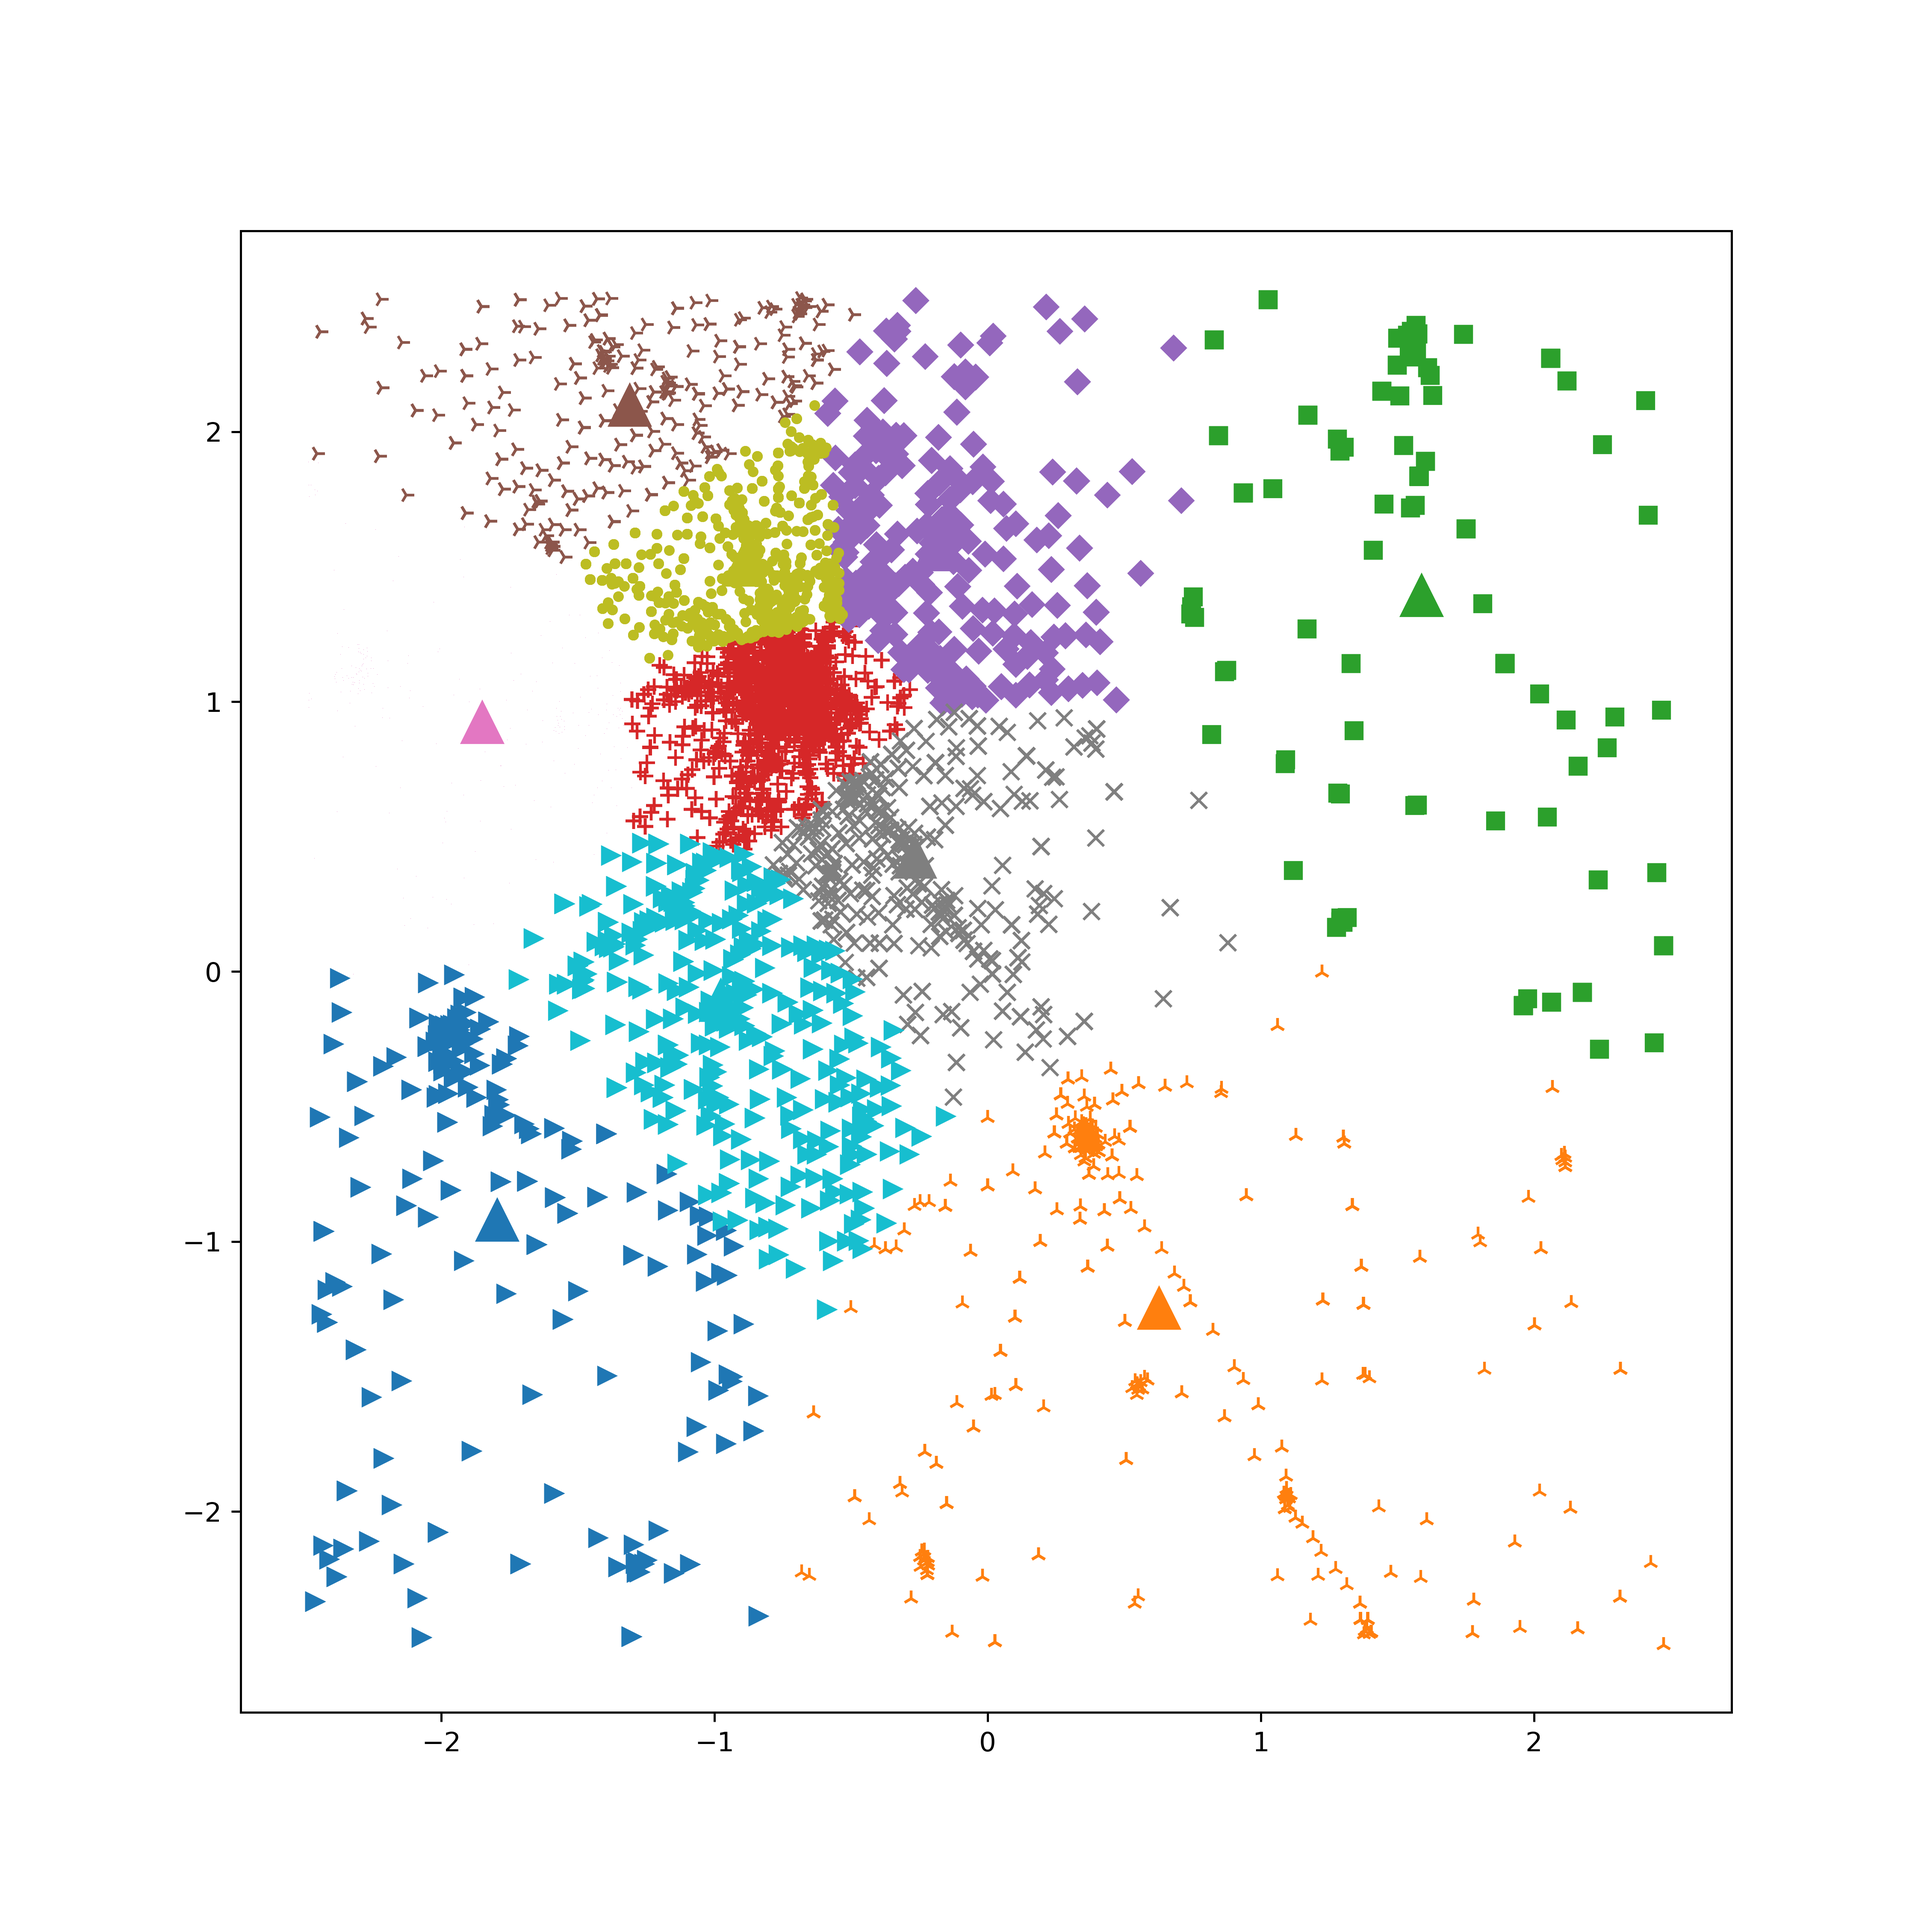
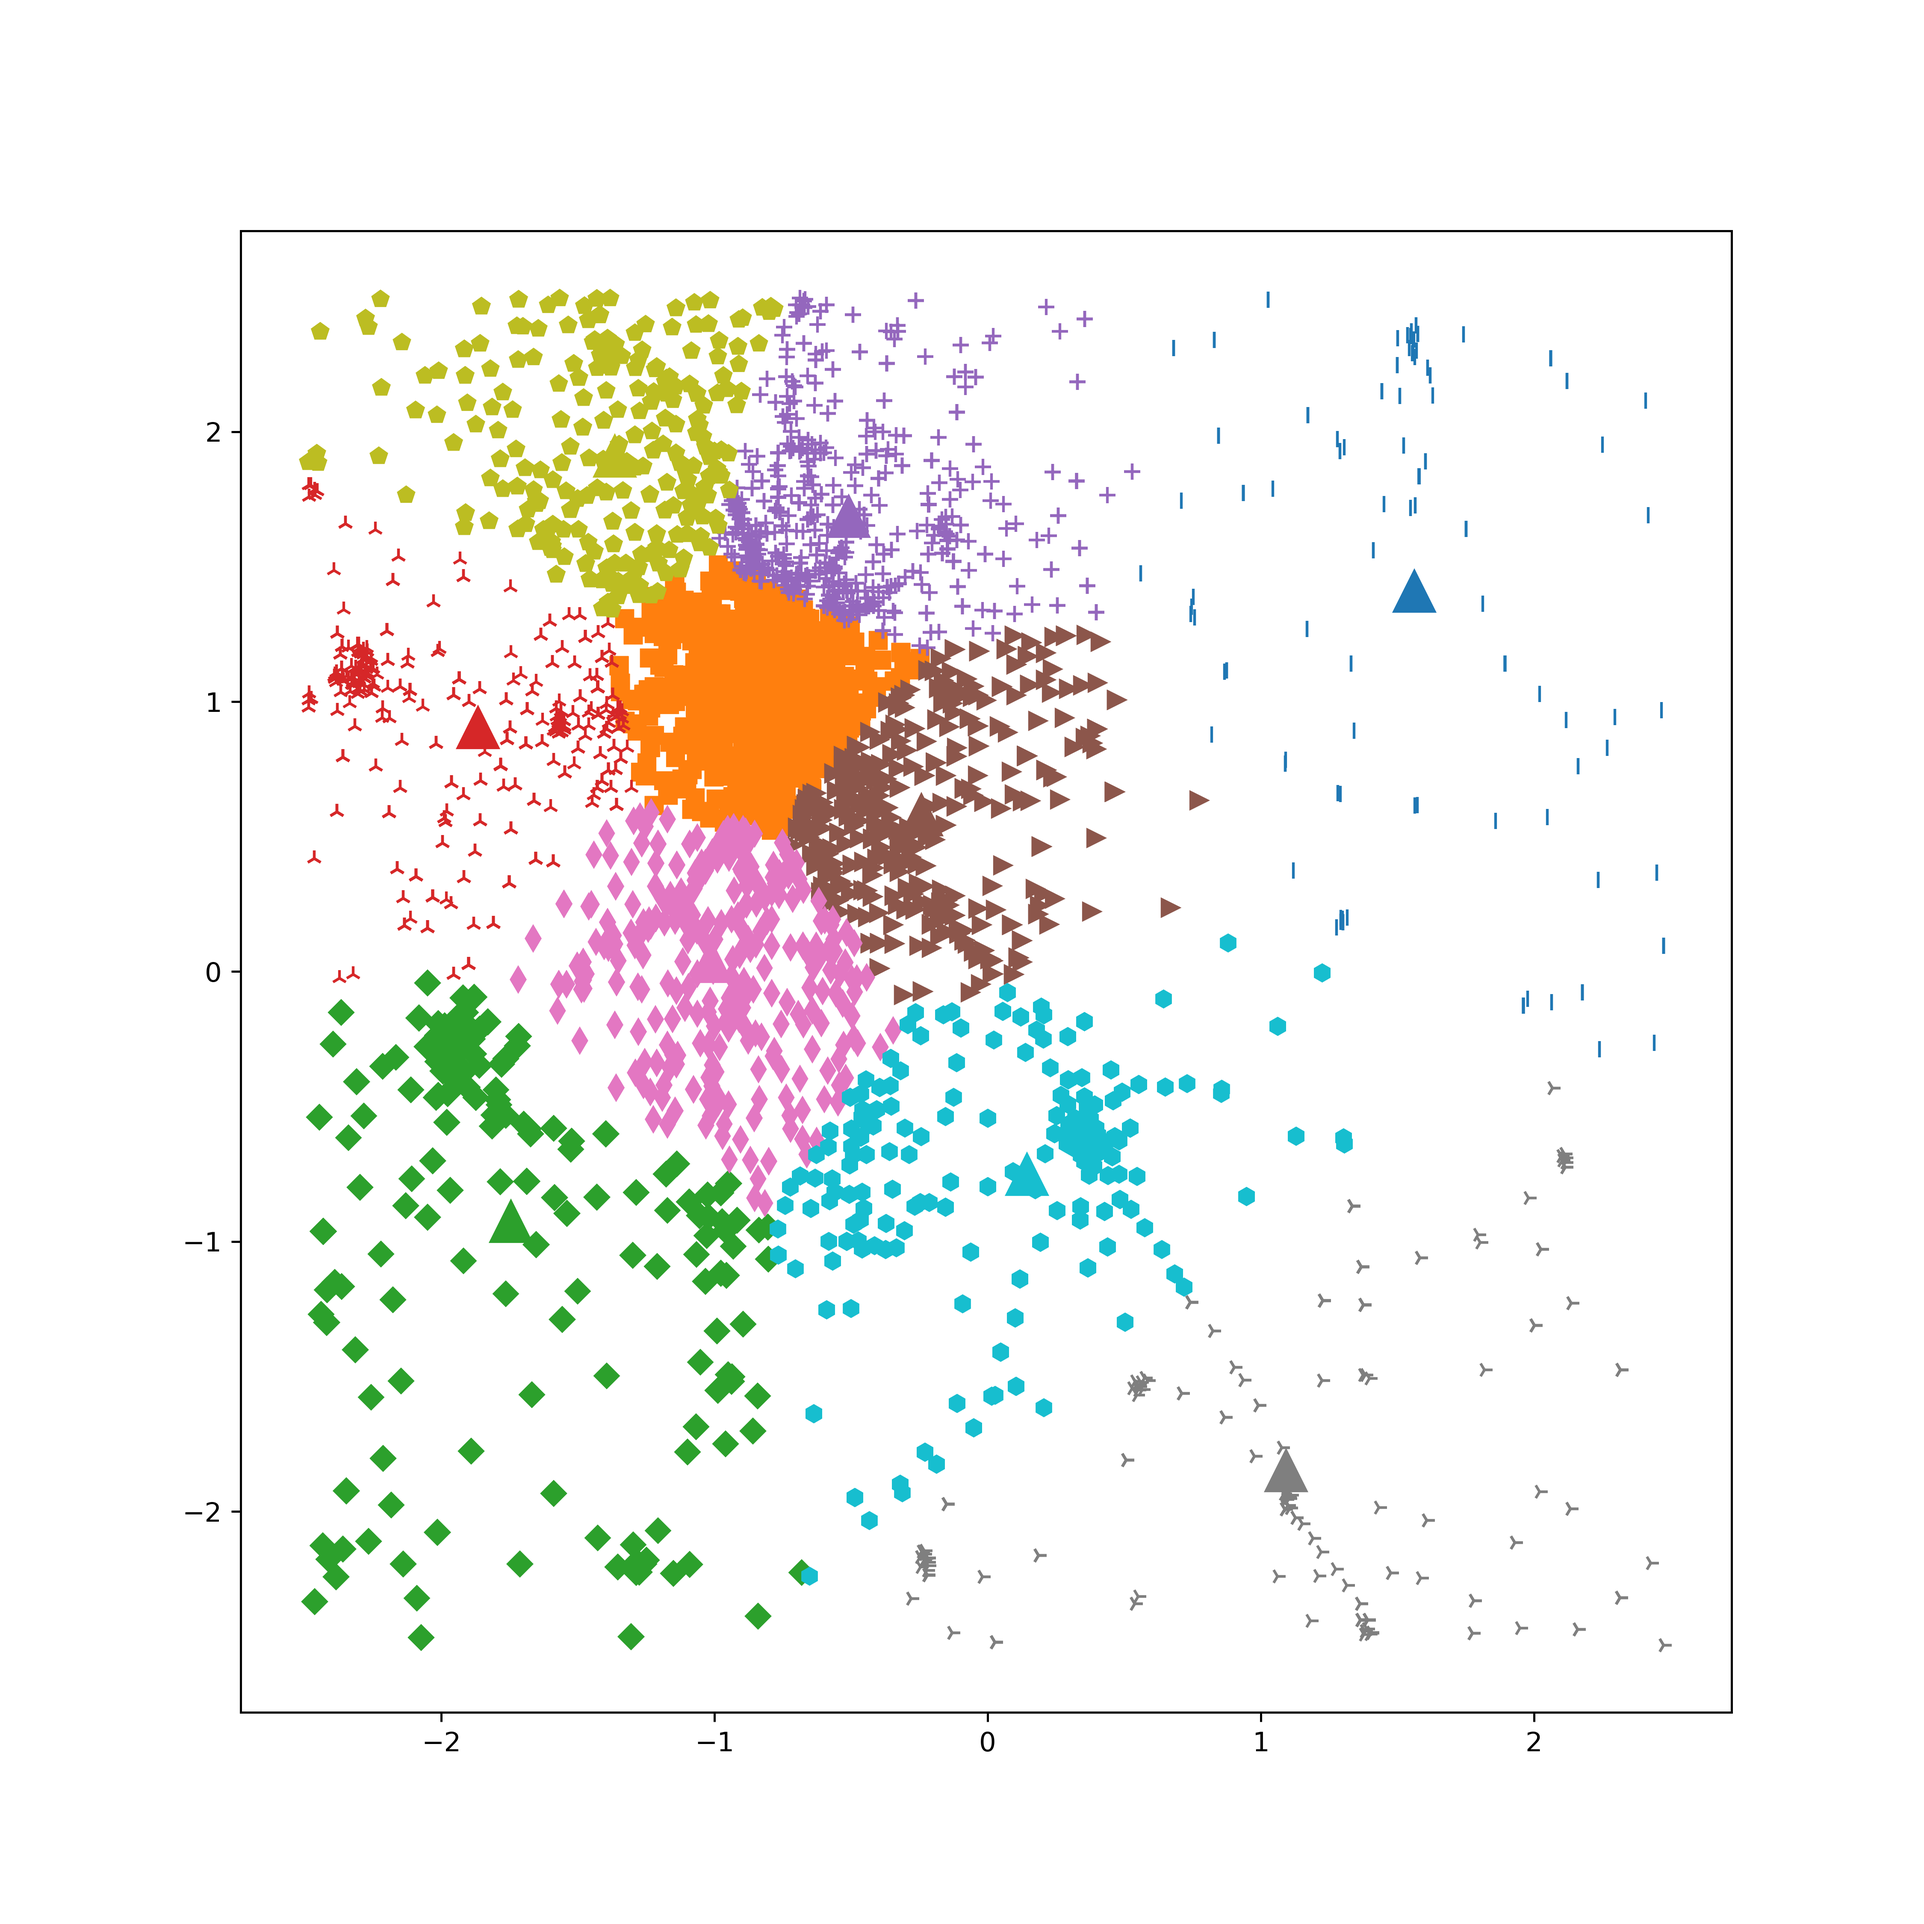
fix

diff --git a/kmeans.py b/kmeans.py
@@ -94,7 +94,8 @@ class KMeans:
                    '8': 'octagon', '<': 'triangle_left', '>': 'triangle_right'}
         markers = np.asarray(list(markers.keys()))
         colors = list(mcolors.TABLEAU_COLORS.values()) +\
-                 list(mcolors.CSS4_COLORS.values())
+                 list(mcolors.BASE_COLORS.values())
+        np.random.shuffle(markers)
 
         if self.k > len(markers):
             print("k is too large! Make 'markers' more")
@@ -118,7 +119,6 @@ class KMeans:
             markIndex = i
             tmp = np.where(self.clustersIndexDist[:, 0] == i)[0]
             tmp_ = self.dataSet[tmp]
-            np.random.shuffle(markers)
             plt.plot(tmp_[:, 0], tmp_[:, 1],
                      markers[markIndex],
                      c=colors[i], markersize=6)
